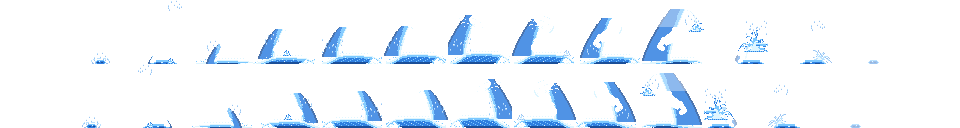
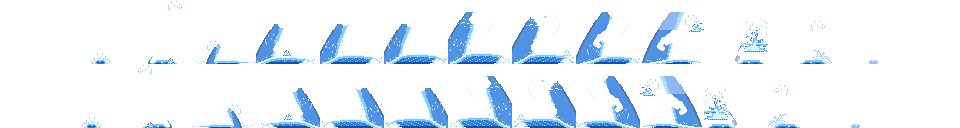
Tidal Slam v5: curling wave rooted on the floor behind the riding wave
Christopher 2026-11-04 16:27: still a gap. The crest is now drawn first,
its bottom on the floor row, and the riding wave is drawn over its base,
so the two are one body of water in every frame (taller crests keep the
height).

Claude-Session: https://claude.ai/code/session_01Szh5tx7XLwDp3xboBTcD1f

diff --git a/tools/astro.py b/tools/astro.py
@@ -3673,13 +3673,13 @@ CLIPS['tidalSlam'] = ('Tidal Slam', 10,
        anchored={1: [('wPuddle', 'feet', 0, -1), ('wRip9', 'feet', 0, -2, _A(_FADE)), ('wDrops', 'feet', 0, -6, _A(_FADE))],
                  2: [('wPuddleL', 'feet', 0, -1), ('wCrest10', 'feet', -10, -5, {'behind': True, 'alpha': _CR}), ('wDrops', 'hand', 0, -4, _A(_FADE)), ('wSplashS', 'feet', 6, -4)],
                  3: [('wRide4_0', 'feet', -2, -2), ('wCrest20', 'feet', -11, -10, {'behind': True, 'alpha': _CR}), ('wDrops', 'feet', -14, -18, _A(_FADE))],
-                 4: [('wCrest30', 'feet', -12, 0, {'behind': True, 'alpha': _CR, 'bottom': 58}), ('wRide7_1', 'feet', -2, -4), ('wSplashS', 'feet', 0, -12), ('wDrops', 'feet', -16, -24, _A(_FADE))],
-                 5: [('wRide9_2', 'feet', -2, -5), ('wCrest30', 'feet', -16, 0, {'behind': True, 'alpha': _CR, 'bottom': 56}), ('wDropsL', 'feet', -22, -18, _A(_FADE))],
-                 6: [('wRide10_3', 'feet', -2, -5), ('wCrest30', 'feet', -17, 0, {'behind': True, 'alpha': _CR, 'bottom': 55}), ('wDrops', 'feet', -24, -20, _A(_FADE))],
-                 7: [('wRide11_0', 'feet', -2, -6), ('wCrest40', 'feet', -16, 0, {'behind': True, 'alpha': _CR, 'bottom': 54}), ('wFoam', 'feet', -12, -40, _A(_FADE)), ('wDropsL', 'feet', -22, -20, _A(_FADE))],
-                 8: [('wRide10_1', 'feet', -2, -5), ('wCrest40', 'feet', -13, 0, {'behind': True, 'alpha': _CR, 'bottom': 55}), ('wFoam', 'feet', -8, -38, _A(_FADE)), ('wSplashS', 'feet', 20, -12, _A(_FADE))],
-                 9: [('wRideBreak', 'feet', -2, -4), ('wCrest40', 'feet', -10, 0, {'behind': True, 'alpha': _CR, 'bottom': 57}), ('wDrops', 'feet', -18, -14, _A(_FADE))],
-                 10: [('wRideCrash', 'feet', -4, -3), ('wCrest52', 'feet', -6, 0, {'behind': True, 'alpha': _CR, 'bottom': 60}), ('wCrest52TS', 'feet', -6, 0, {'alpha': {'n': 120, 'A': 140, 'a': 160, 'I': 190, 'W': 230}, 'bottom': 60}), ('wSplash', 'hand', 3, 2), ('wDrops', 'hand', -2, -3, _A(_FADE))],
+                 4: [('wCrest40', 'feet', -12, 0, {'behind': True, 'alpha': _CR, 'bottom': 63}), ('wRide7_1', 'feet', -2, -4), ('wSplashS', 'feet', 0, -12), ('wDrops', 'feet', -16, -24, _A(_FADE))],
+                 5: [('wCrest40', 'feet', -16, 0, {'behind': True, 'alpha': _CR, 'bottom': 63}), ('wRide9_2', 'feet', -2, -5), ('wDropsL', 'feet', -22, -18, _A(_FADE))],
+                 6: [('wCrest40', 'feet', -17, 0, {'behind': True, 'alpha': _CR, 'bottom': 63}), ('wRide10_3', 'feet', -2, -5), ('wDrops', 'feet', -24, -20, _A(_FADE))],
+                 7: [('wCrest52', 'feet', -16, 0, {'behind': True, 'alpha': _CR, 'bottom': 63}), ('wRide11_0', 'feet', -2, -6), ('wFoam', 'feet', -12, -40, _A(_FADE)), ('wDropsL', 'feet', -22, -20, _A(_FADE))],
+                 8: [('wCrest52', 'feet', -13, 0, {'behind': True, 'alpha': _CR, 'bottom': 63}), ('wRide10_1', 'feet', -2, -5), ('wFoam', 'feet', -8, -38, _A(_FADE)), ('wSplashS', 'feet', 20, -12, _A(_FADE))],
+                 9: [('wCrest52', 'feet', -10, 0, {'behind': True, 'alpha': _CR, 'bottom': 63}), ('wRideBreak', 'feet', -2, -4), ('wDrops', 'feet', -18, -14, _A(_FADE))],
+                 10: [('wCrest52', 'feet', -6, 0, {'behind': True, 'alpha': _CR, 'bottom': 63}), ('wCrest52TS', 'feet', -6, 0, {'alpha': {'n': 120, 'A': 140, 'a': 160, 'I': 190, 'W': 230}, 'bottom': 63}), ('wRideCrash', 'feet', -4, -3), ('wSplash', 'hand', 3, 2), ('wDrops', 'hand', -2, -3, _A(_FADE))],
                  11: [('wCrest20', 'feet', 2, 0, {'behind': True, 'alpha': _FADE, 'bottom': 62}), ('wSplashXL', 'hand', 0, 4), ('wJetL', 'hand', 12, 10), ('wDropsL', 'hand', 2, -6, _A(_FADE)), ('wPuddleL', 'feet', 8, -1)],
                  12: [('wSplashLD', 'feet', 12, -10, _A(_FADE)), ('wPuddleL', 'feet', 6, -1), ('wDrops', 'head', 8, 4, _A(_FADE))],
                  13: [('wPuddle', 'feet', 4, -1, _A(_FADE))]}))
